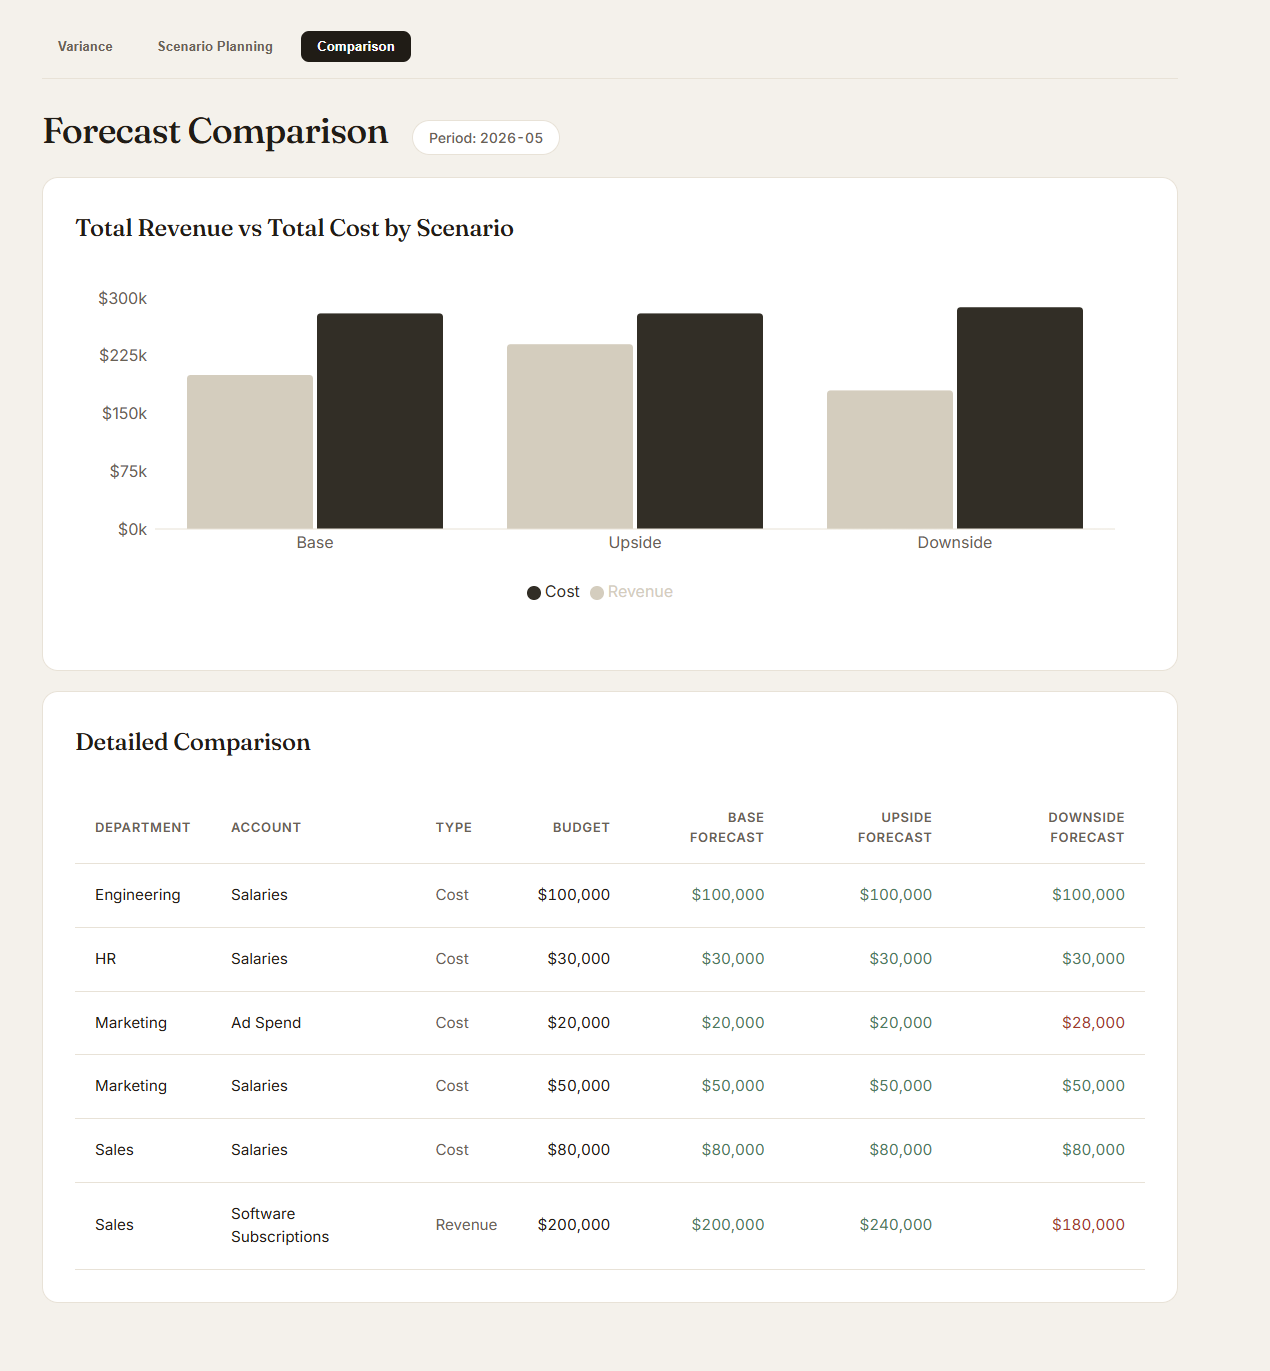
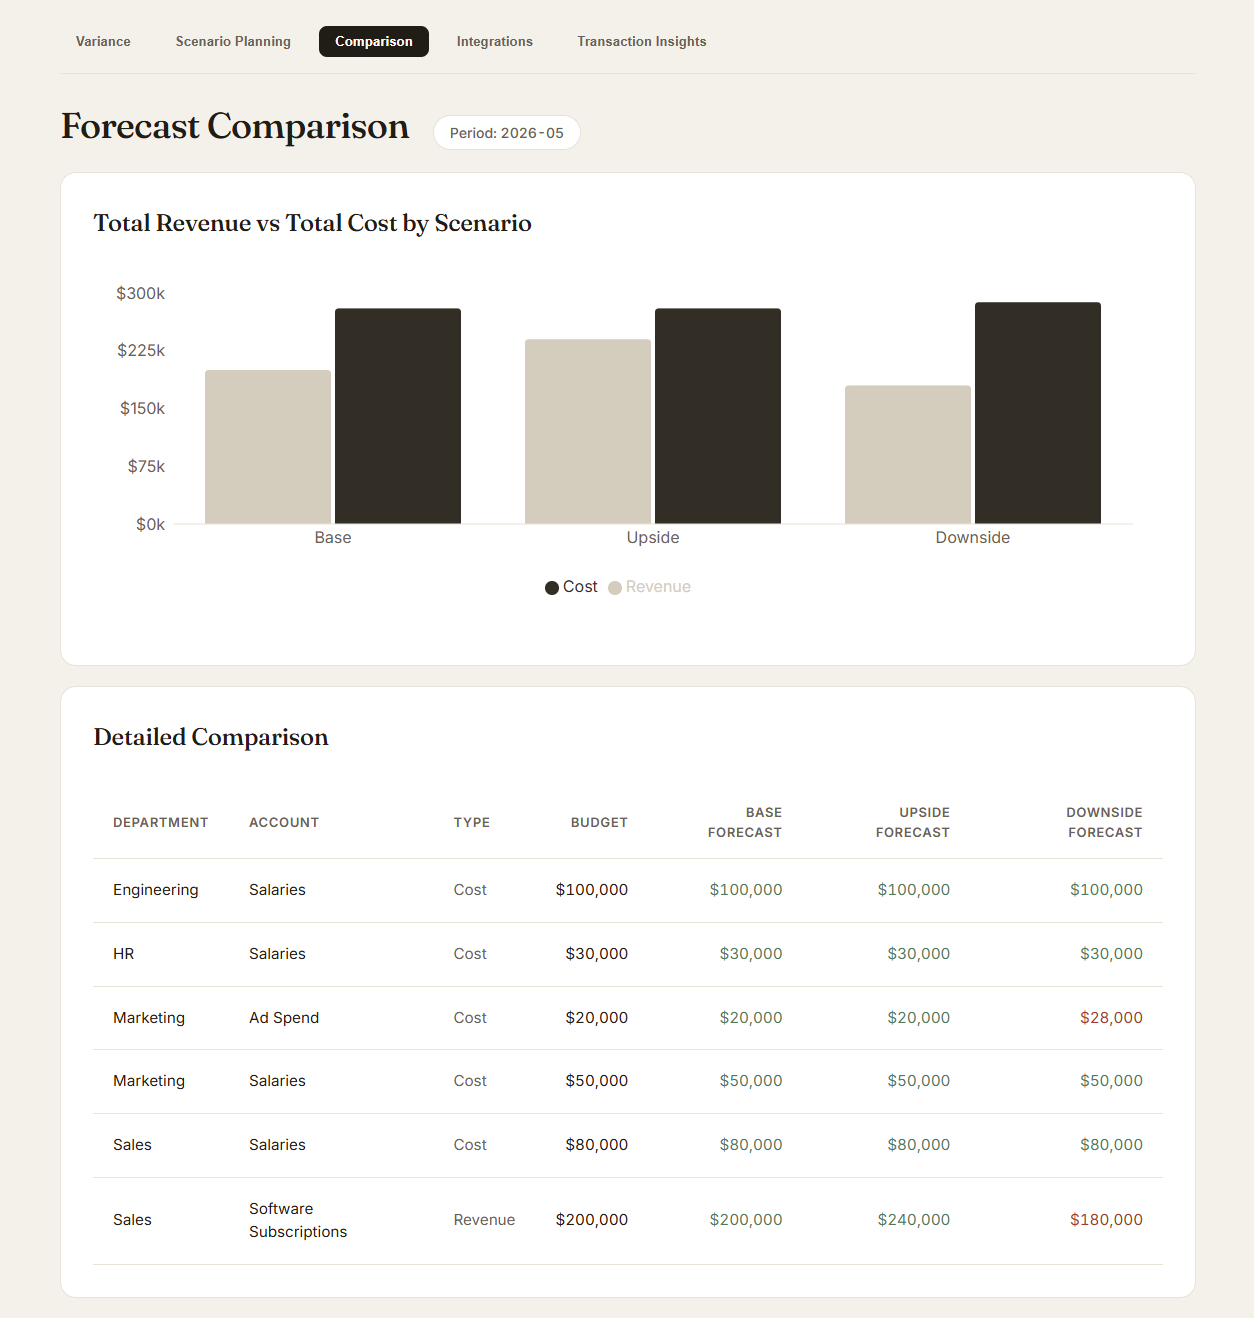
docs: refresh screenshots to current five-tab app, add transaction insights

diff --git a/README.md b/README.md
@@ -59,6 +59,8 @@ The app ships as five modules:
 
 **Transaction insights** - reads the pipeline's BigQuery aggregates back into the app, so the streaming work is visible and clickable in the live demo.
 
+![Transaction insights](docs/insights.png)
+
 ## Tech stack
 
 - **Frontend:** React, Vite, TypeScript, Recharts